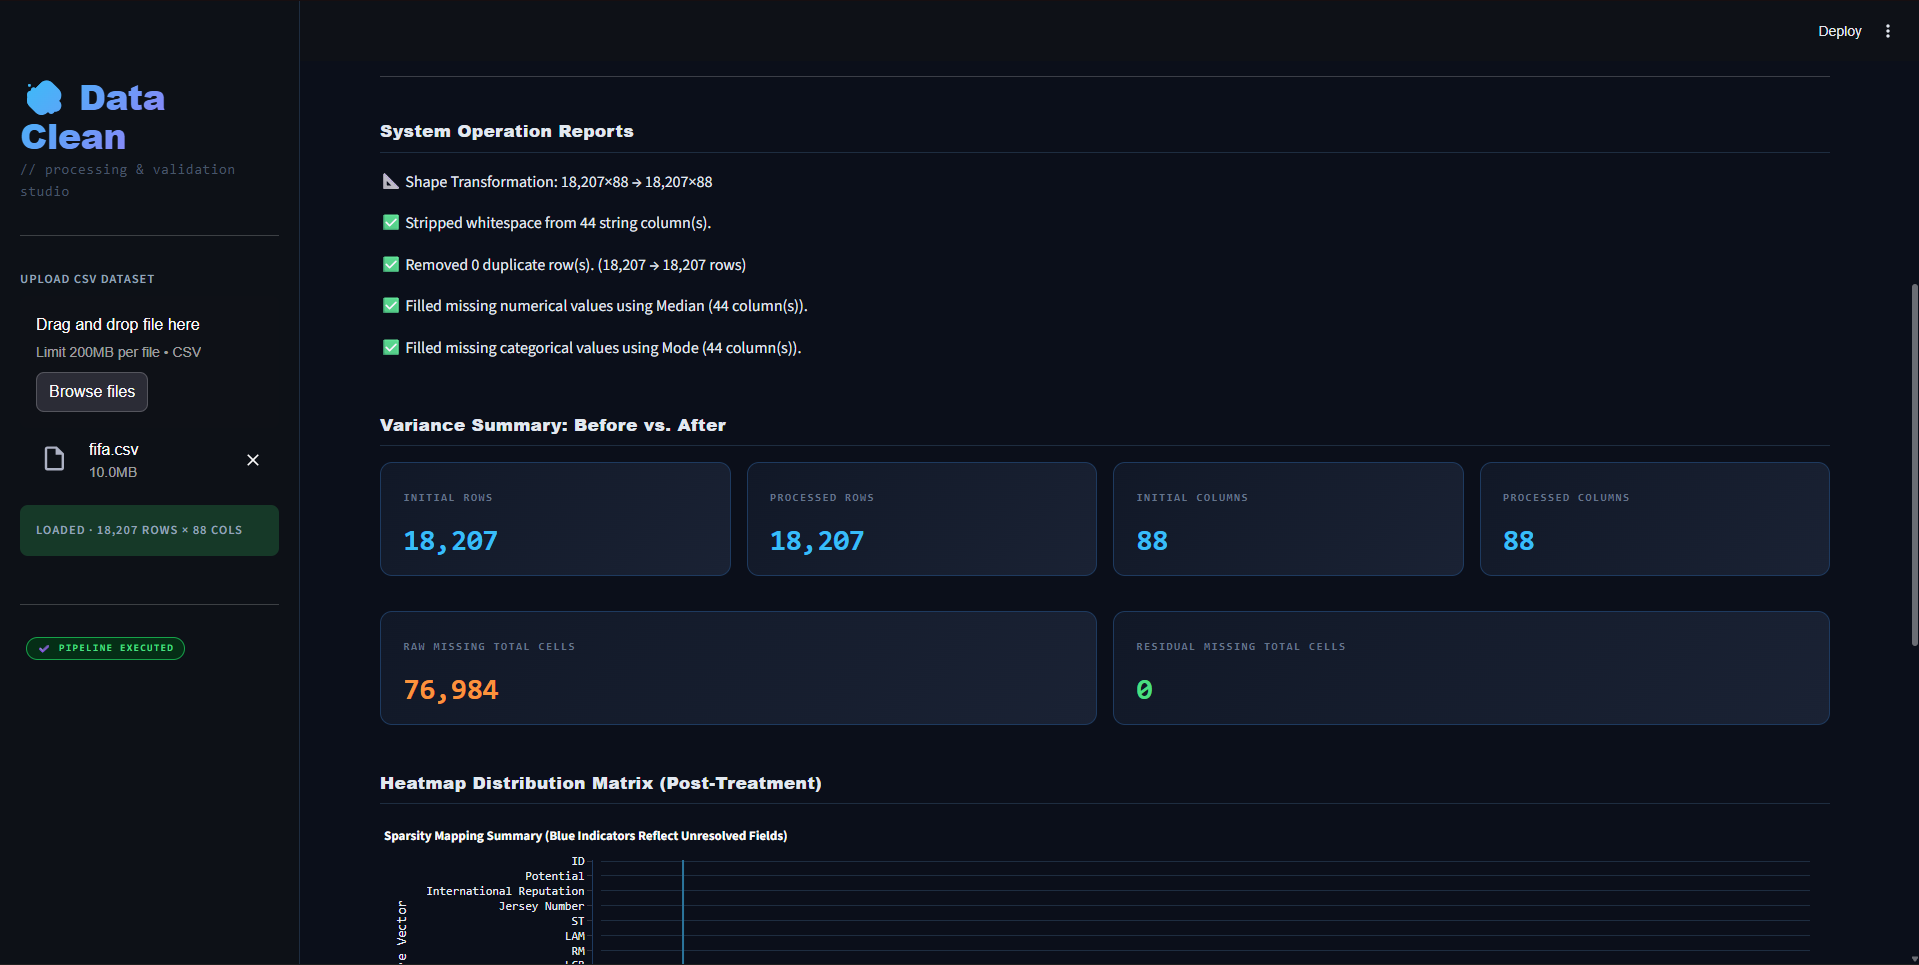
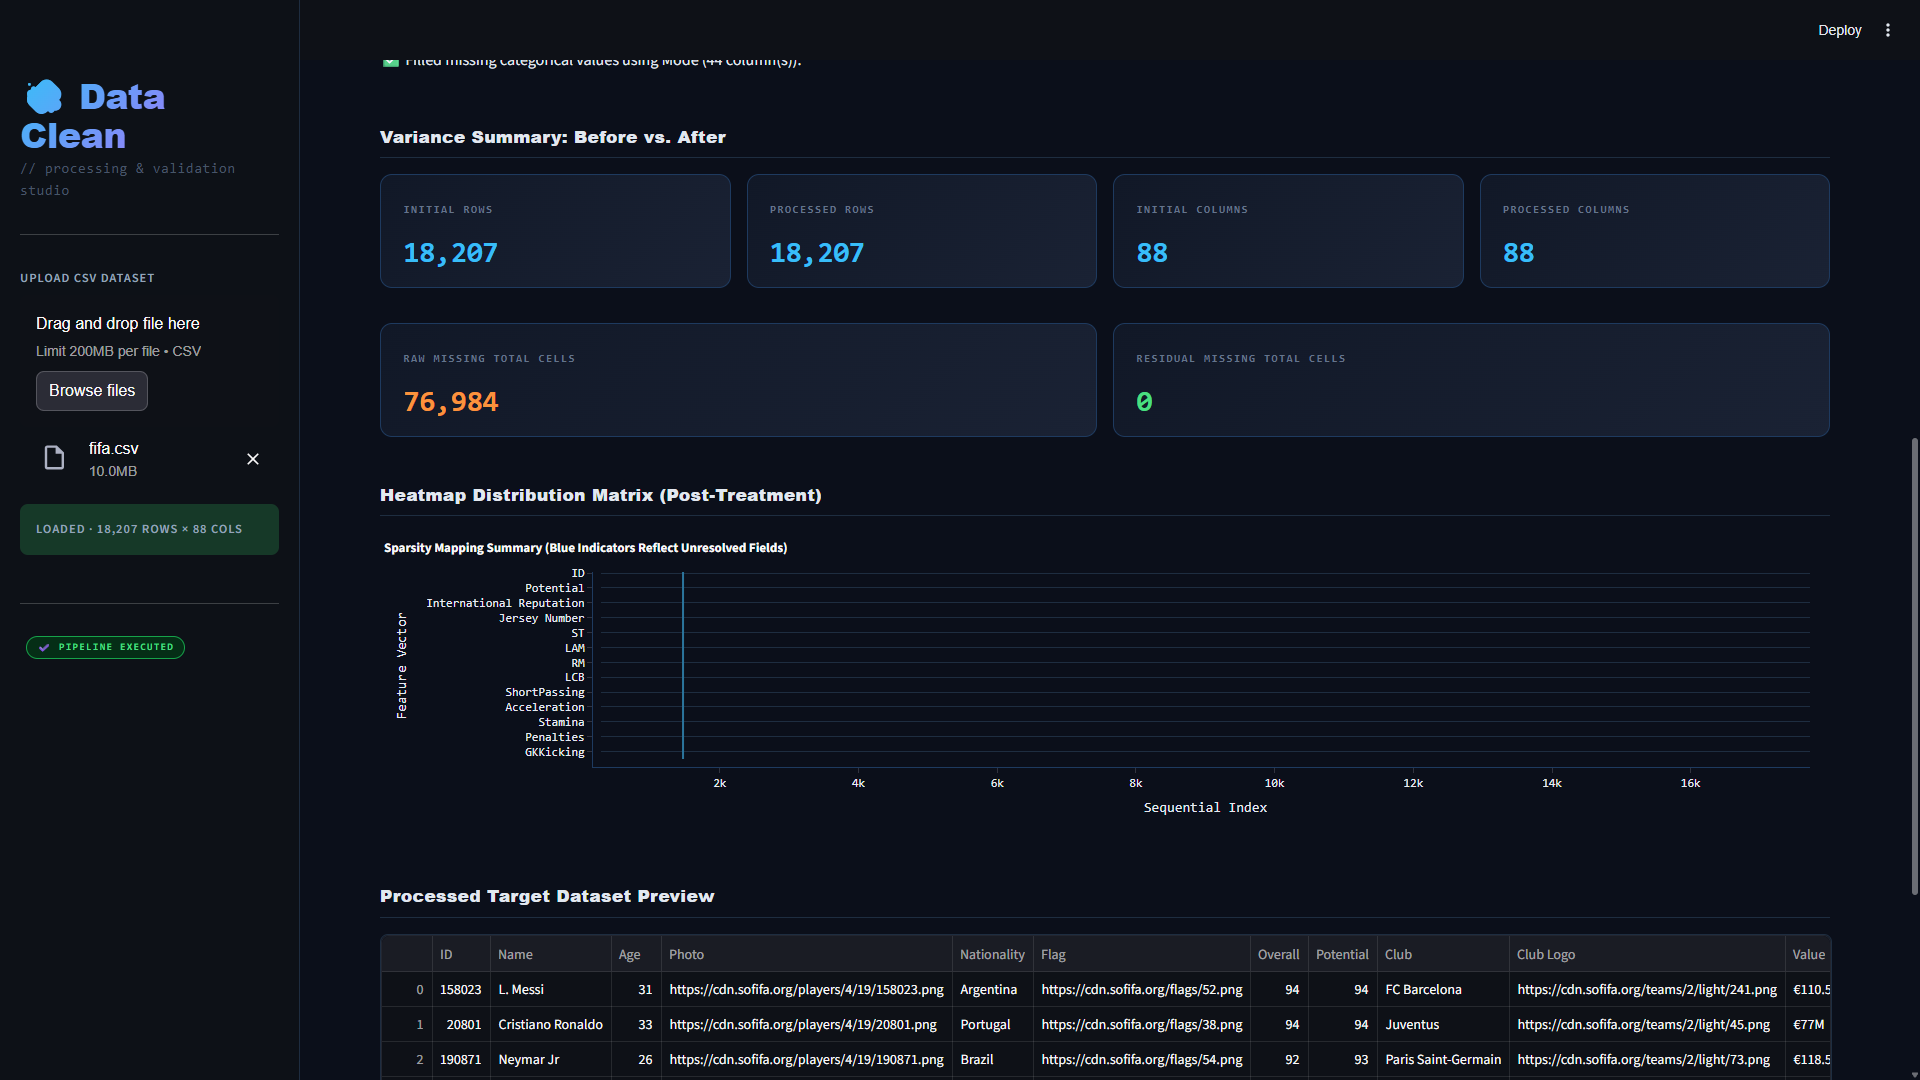
Added the link to the app.

diff --git a/app.py b/app.py
@@ -258,7 +258,7 @@ with st.sidebar:
             st.caption("Apply treatment settings within the **Data Cleaning** workflow tab.")
 
 # ─── Main Interface ─────────────────────────────────────────────────────────────
-st.markdown('<div class="hero-title">Data Clean Studio</div>', unsafe_allow_html=True)
+st.markdown('<div class="hero-title">Data Refinery Studio</div>', unsafe_allow_html=True)
 st.markdown('<div class="hero-sub">// profile · clean · evaluate diagnostics · download</div>', unsafe_allow_html=True)
 st.markdown("<br>", unsafe_allow_html=True)
 

diff --git a/README.md b/README.md
@@ -35,3 +35,7 @@ A sleek, automated data preprocessing and structural diagnostics workspace built
 - **Interface Frontend:** Streamlit (with embedded Syne & JetBrains Mono web-typography rules)
 - **Data Engineering:** Pandas, NumPy
 - **Visual Diagnostics:** Plotly Express
+
+## Deployed app
+- https://datarefinerystudio.streamlit.app
+
